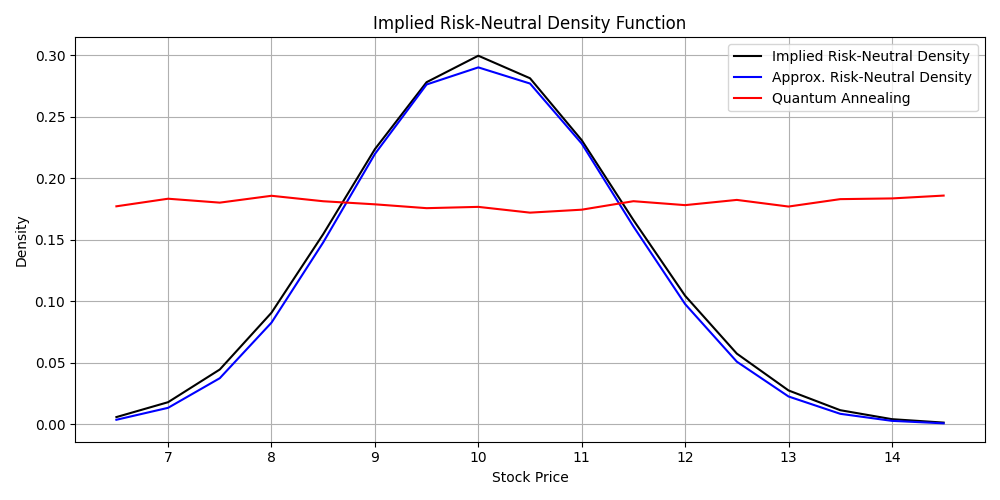
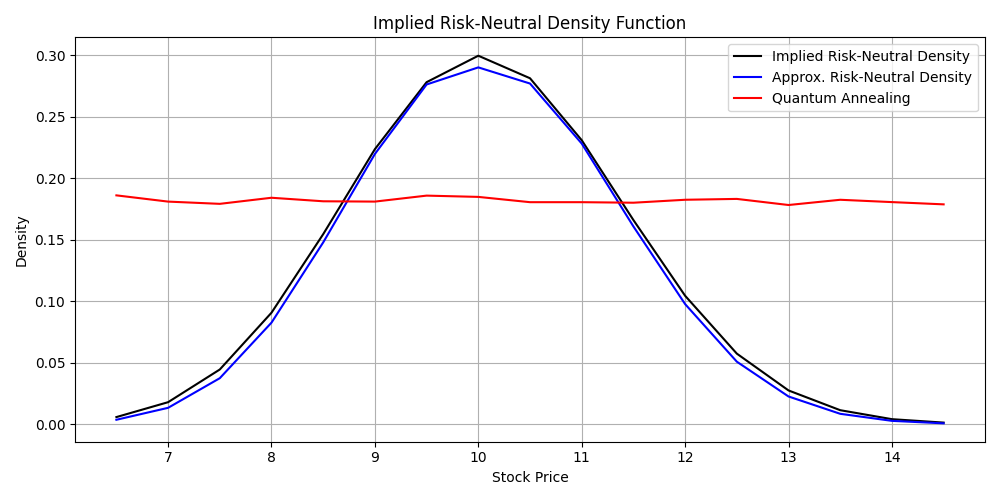
added couple of comments

Changed region(s): [[0.124, 0.39, 0.961, 0.45]]

diff --git a/quantum_arbitrage/solvers/dwave_solver.py b/quantum_arbitrage/solvers/dwave_solver.py
@@ -12,7 +12,8 @@ def solve_qubo(Dimension, qubits, A, b, true_x, scale):
     true_b = np.array([el * scale for el in b])
     true_x = [el * scale for el in true_x]
     # Regularization (A⊤A+λI)x=A⊤b
-    lambda_reg = 1e-4  # or try 1e-2, 1e-4 depending on stability
+    # (also did not help)
+    lambda_reg = 1e-2  # or try 1e-2, 1e-4 depending on stability
     A = true_A.T @ true_A + lambda_reg * np.eye(true_A.shape[1])
     b = true_A.T @ true_b
 
@@ -175,6 +176,7 @@ def solve_qubo(Dimension, qubits, A, b, true_x, scale):
     print(sampleset_pd_agg.sort_values('num_occurrences', ascending=False))
     print('=' * 50)
 
+    # selecting the one with the lowest error (no help here either).
     results = [(lowest_x, np.linalg.norm(A @ lowest_x - true_b), 'lowest energy state x'),
                (frequent_x, np.linalg.norm(A @ frequent_x - true_b), 'most frequently occurring x'),
                (expected_x, np.linalg.norm(A @ expected_x - true_b), 'expected x (from real value)')]

diff --git a/quantum_arbitrage/main.py b/quantum_arbitrage/main.py
@@ -31,7 +31,10 @@ Ki, S_T, A, C = get_problem_formulation(S0, r, implied_vols, K, T, delta_K)
 g = breeden_litzenberger_solve_system(Ki, delta_K, r, T, C)
 f = numpy_solve_system(A, C)
 avg_q_f = [0] * len(f)
-for i in range(1):
+N = 1
+# trying to average over N runs, but does not help.
+# (so setting N to 1 for now)
+for i in range(N):
     q_f = solve_qubo(len(f), 7, A, C, f, 100)
     for j in range(len(avg_q_f)):
         avg_q_f[j] = (avg_q_f[j] * i + q_f[j]) / (i + 1)
